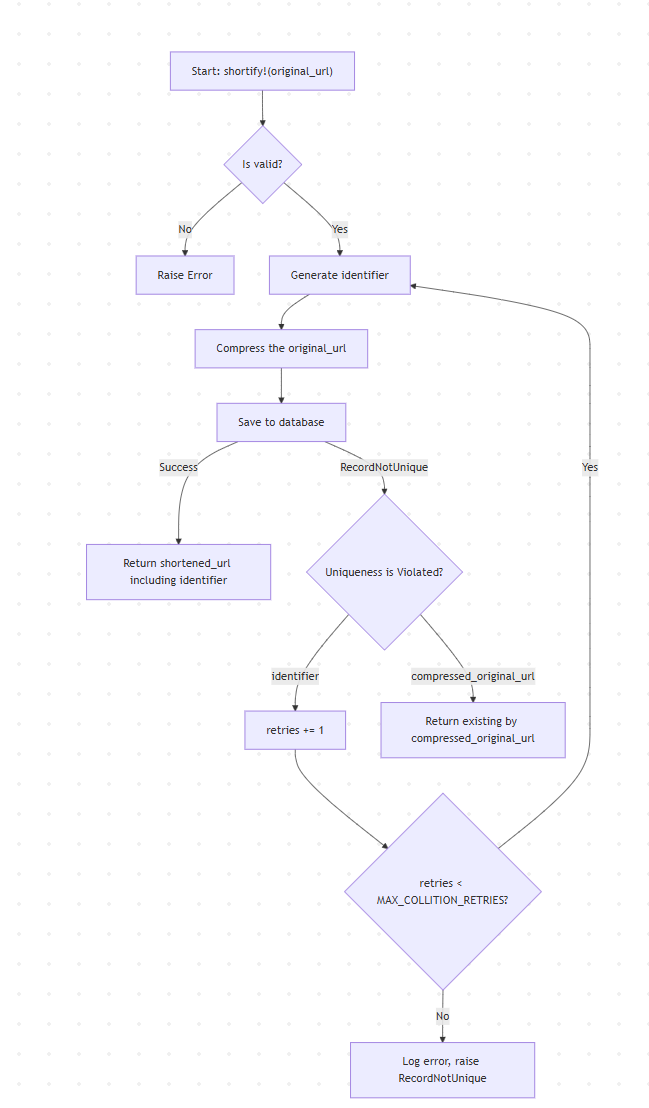
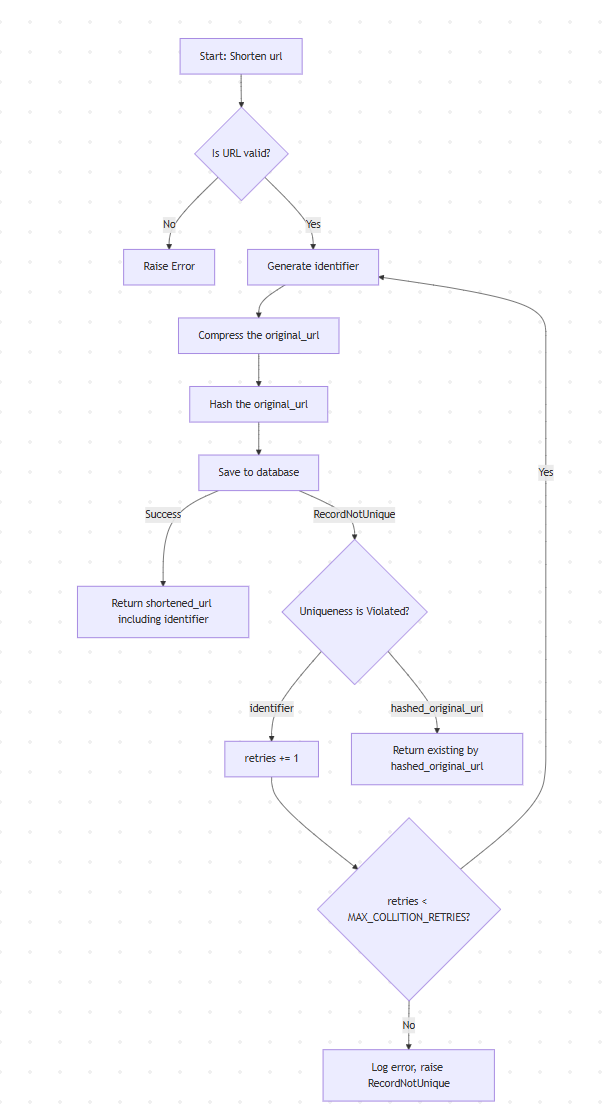
feat: using hashing url instead of compressing to detect duplication

diff --git a/db/migrate/20250911122039_add_hashed_original_url_to_shortened_urls.rb b/db/migrate/20250911122039_add_hashed_original_url_to_shortened_urls.rb
@@ -1,0 +1,12 @@
+class AddHashedOriginalUrlToShortenedUrls < ActiveRecord::Migration[8.0]
+  def up
+    add_column :shortened_urls, :hashed_original_url, :string, null: false
+    add_index :shortened_urls, :hashed_original_url, unique: true
+    remove_index :shortened_urls, :compressed_original_url
+  end
+
+  def down
+    remove_column :shortened_urls, :hashed_original_url
+    add_index :shortened_urls, :compressed_original_url, unique: true
+  end
+end

diff --git a/spec/models/shortened_url_spec.rb b/spec/models/shortened_url_spec.rb
@@ -44,6 +44,14 @@ RSpec.describe ShortenedUrl, type: :model do
       end
     end
 
+    describe "#hash_original_url" do
+      it "generates a SHA256 hash of the original URL" do
+        expected_hash = Digest::SHA256.hexdigest("https://example.com")
+        shortened_url.hash_original_url
+        expect(shortened_url.hashed_original_url).to eq(expected_hash)
+      end
+    end
+
     describe "#compress_original_url" do
       it "compresses the original URL using Utils::Compress.encode" do
         allow(Utils::Compress).to receive(:encode).with("https://example.com").and_return("compressed_data")
@@ -110,8 +118,8 @@ RSpec.describe ShortenedUrl, type: :model do
       end
     end
 
-    context "when compressed_original_url is existed" do
-      it "returns existing ShortenedUrl when compressed_original_url already exists" do
+    context "when original_url is existed" do
+      it "returns existing ShortenedUrl when original_url already exists" do
         first_url = ShortenedUrl.shortify!(long_url)
         second_url = ShortenedUrl.shortify!(long_url)
 

diff --git a/app/models/shortened_url.rb b/app/models/shortened_url.rb
@@ -10,6 +10,10 @@ class ShortenedUrl < ApplicationRecord
     self.identifier = SecureRandom.alphanumeric(6)
   end
 
+  def hash_original_url
+    self.hashed_original_url = Digest::SHA256.hexdigest(original_url)
+  end
+
   def compress_original_url
     self.compressed_original_url = Utils::Compress.encode(original_url)
   end
@@ -27,6 +31,7 @@ class ShortenedUrl < ApplicationRecord
 
       shortened_url.generate_identifier
       shortened_url.compress_original_url
+      shortened_url.hash_original_url
 
       retries = 0
 
@@ -48,8 +53,8 @@ class ShortenedUrl < ApplicationRecord
 
             raise ActiveRecord::RecordNotUnique, "There is an unexpected error occured. Please try again."
           end
-        when "compressed_original_url"
-          return find_by(compressed_original_url: shortened_url.compressed_original_url)
+        when "hashed_original_url"
+          return find_by(hashed_original_url: shortened_url.hashed_original_url)
         end
       end
 

diff --git a/db/schema.rb b/db/schema.rb
@@ -10,7 +10,7 @@
 #
 # It's strongly recommended that you check this file into your version control system.
 
-ActiveRecord::Schema[8.0].define(version: 2025_09_08_134335) do
+ActiveRecord::Schema[8.0].define(version: 2025_09_11_122039) do
   # These are extensions that must be enabled in order to support this database
   enable_extension "pg_catalog.plpgsql"
 
@@ -19,7 +19,8 @@ ActiveRecord::Schema[8.0].define(version: 2025_09_08_134335) do
     t.datetime "created_at", null: false
     t.datetime "updated_at", null: false
     t.binary "compressed_original_url", null: false
-    t.index ["compressed_original_url"], name: "index_shortened_urls_on_compressed_original_url", unique: true
+    t.string "hashed_original_url", null: false
+    t.index ["hashed_original_url"], name: "index_shortened_urls_on_hashed_original_url", unique: true
     t.index ["identifier"], name: "index_shortened_urls_on_identifier", unique: true
   end
 end

diff --git a/README.md b/README.md
@@ -7,7 +7,7 @@ A shortening service that creates short, shareable links from long URLs. This ap
 - **URL Shortening**: Convert long URLs into short, 6-character alphanumeric identifiers generated using Rails built-in `SecureRandom` for unique ID generation, potential for collisions, but it makes the identifiers shorter and more *unpredictable*. This approach is suitable for current version, where security and unpredictability are prioritized over sequential ordering since the current implementation have not applied authentication.
 - **URL Expansion**: Decode shortened URLs back to original URLs.
 - **Data Compression**: Since URLs can be long, the original URLs are stored in a compressed format to save database space.
-- **Duplicate Detection**: Using unique constraints on the compressed URL, let the database handle duplicate detection by itself. Handle conflicts gracefully by returning the existing URL.
+- **Duplicate Detection**: Using unique constraints on the hashed URL, let the database handle duplicate detection by itself. Handle conflicts gracefully by returning the existing URL.
 - **Caching**: Utilize Redis to cache frequently accessed URLs for faster retrieval.
 - **Collision Handling**: Handle potential identifier collisions by regenerating identifiers 3 times before returning an error.
 